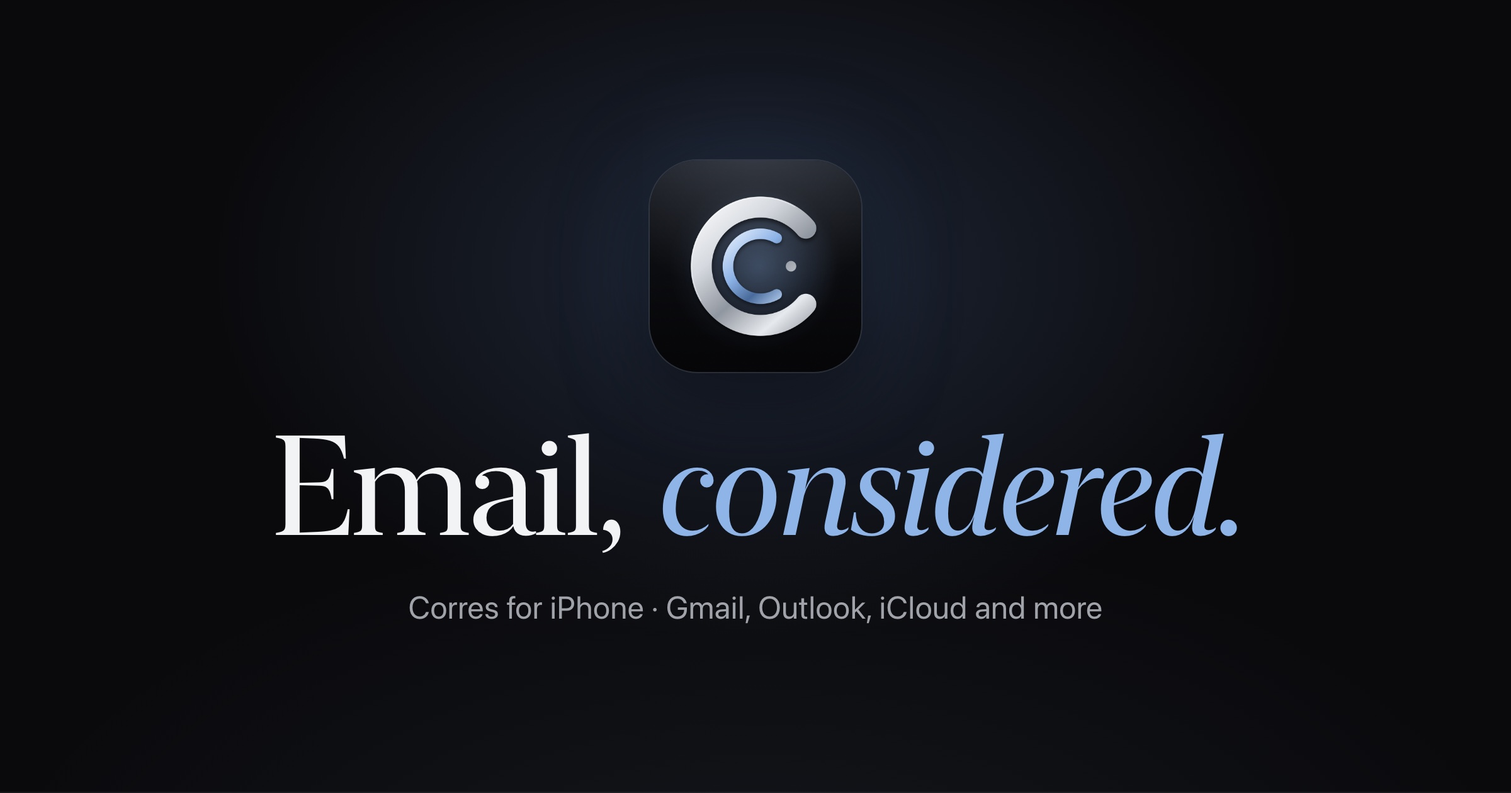
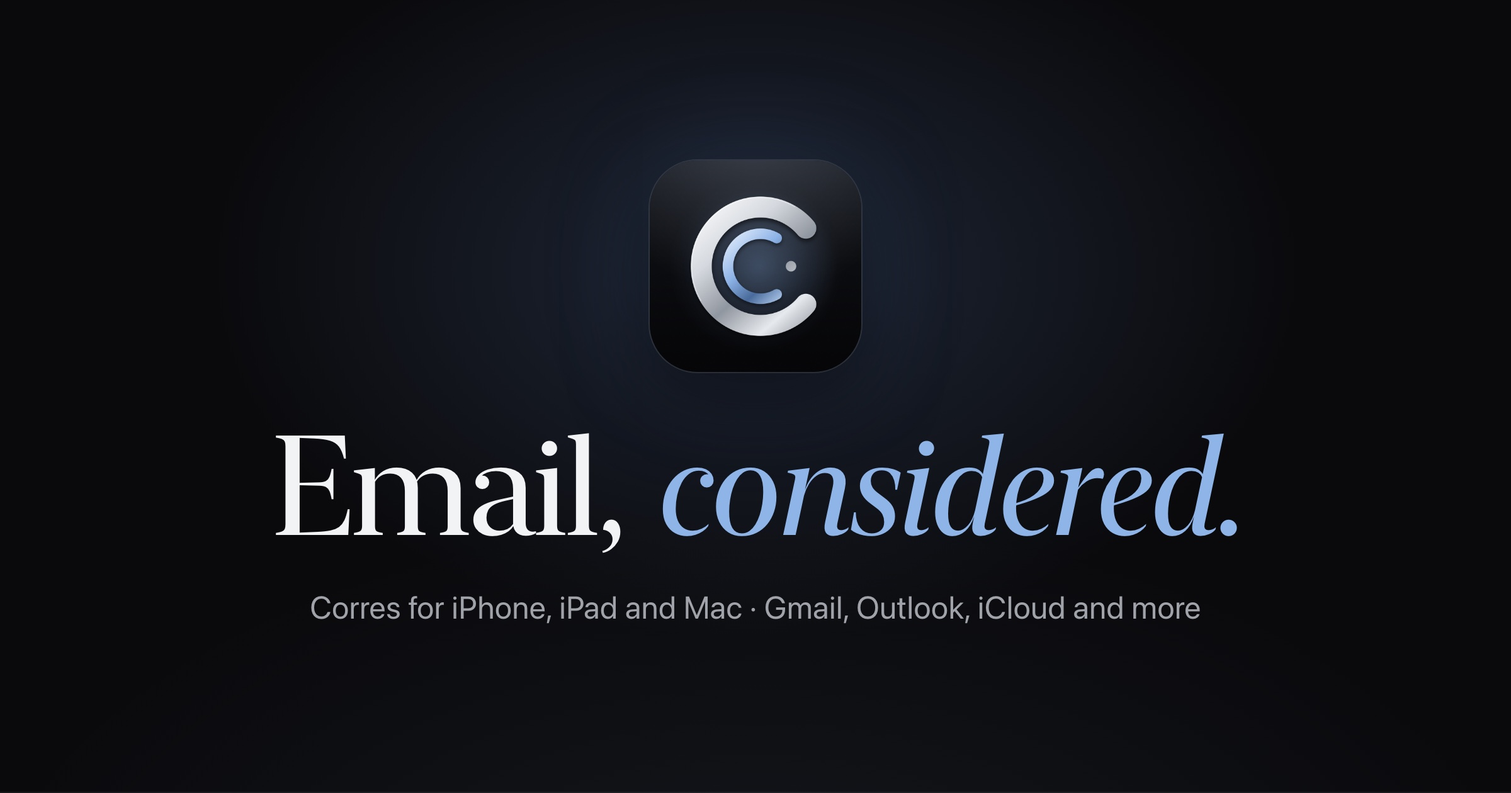
Corres on iPhone, iPad and Mac
- The site says iPhone, iPad and Mac everywhere: hero, descriptions,
  the share card, the closing line, privacy, support and terms.
- A new section with real screenshots of the Mac app and the iPad app
  (sample mail), the Mac window behind the iPad and iPhone.
- The FAQ answers iPad and Mac together; support explains using Corres
  on a Mac and that removing an account removes it everywhere.
- Privacy covers accounts that follow you through iCloud Keychain.

Changed region(s): [[0.2188, 0.7429, 0.7812, 0.8048]]

diff --git a/public/corres/index.html b/public/corres/index.html
@@ -4,13 +4,13 @@
 <meta charset="utf-8">
 <meta name="viewport" content="width=device-width, initial-scale=1, viewport-fit=cover">
 <title>Corres · Email, considered.</title>
-<meta name="description" content="Corres is an email app for iPhone that reads and sorts your Gmail, Outlook and iCloud Mail on the device, brings forward what needs you, and never sends your mail to a server or an AI company.">
+<meta name="description" content="Corres is an email app for iPhone, iPad and Mac that reads and sorts your Gmail, Outlook and iCloud Mail on your own devices, brings forward what needs you, and never sends your mail to a server or an AI company.">
 <link rel="canonical" href="https://corres.app/">
 <meta property="og:type" content="website">
 <meta property="og:site_name" content="Corres">
 <meta property="og:url" content="https://corres.app/">
 <meta property="og:title" content="Corres · Email, considered.">
-<meta property="og:description" content="What needs you, first. Gmail, Outlook, iCloud and more in one calm inbox, read and sorted on your iPhone.">
+<meta property="og:description" content="What needs you, first. Gmail, Outlook, iCloud and more in one calm inbox, read and sorted on your iPhone, iPad and Mac.">
 <meta property="og:image" content="https://corres.app/img/share.jpg">
 <meta property="og:image:width" content="2400">
 <meta property="og:image:height" content="1260">
@@ -133,6 +133,24 @@
   .head p { color: var(--sec); font-size: 19px; margin: 0; max-width: 36em; }
   .center { text-align: center; margin-inline: auto; }
   .center p { margin-inline: auto; }
+
+  /* Every screen: the Mac window, with iPad and iPhone in front of it. */
+  .devices-stage { position: relative; max-width: 1080px; margin: 8px auto 0; padding-bottom: 9%; }
+  .macwin { width: 84%; margin-left: auto; border-radius: 12px; overflow: hidden; background: #0b0b0d;
+            box-shadow: 0 0 0 1px rgba(255,255,255,.14), 0 40px 90px rgba(0,0,0,.55), 0 10px 30px rgba(0,0,0,.35); }
+  .macwin img { display: block; width: 100%; height: auto; }
+  .ipad { position: absolute; left: 0; bottom: 0; width: 31%; border-radius: 7% / 5.2%; padding: 2.4%;
+          background: linear-gradient(145deg, #4a4c52, #1d1e21 40%, #2b2d31);
+          box-shadow: 0 0 0 1px rgba(255,255,255,.08) inset, 0 30px 70px rgba(0,0,0,.6); }
+  .ipad .glass { background: #020203; border-radius: 5.2% / 3.9%; padding: 3.2%; }
+  .ipad img { display: block; width: 100%; height: auto; border-radius: 2.6% / 1.95%; }
+  .devices-stage .phone { position: absolute; right: -1%; bottom: -3%; width: 15.5%; margin: 0; }
+  @media (max-width: 900px) {
+    .macwin { width: 100%; }
+    .ipad { width: 40%; left: -2%; bottom: -6%; }
+    .devices-stage { padding-bottom: 22%; }
+    .devices-stage .phone { width: 21%; right: -2%; bottom: -8%; }
+  }
 
   /* Story rows */
   .story { display: grid; grid-template-columns: 1fr 1fr; gap: 72px; align-items: center; padding: 56px 0; }
@@ -271,7 +289,7 @@
   <div class="hero">
     <div class="wrap">
       <div>
-        <p class="eyebrow">Email for iPhone · Gmail, Outlook and iCloud</p>
+        <p class="eyebrow">Email for iPhone, iPad and Mac · Gmail, Outlook and iCloud</p>
         <h1>Email,<br><em>considered.</em></h1>
         <p class="lede">Corres opens on <strong>what needs you</strong>: every email that asks something of you, with the reason why. The rest of your mail is one swipe along, quiet until you&rsquo;re ready. All read and sorted on your iPhone.</p>
         <div class="cta">
@@ -390,6 +408,21 @@
     </div>
   </section>
 
+  <section id="devices" style="padding-top:0">
+    <div class="wrap">
+      <div class="head center reveal">
+        <p class="eyebrow">iPhone, iPad and Mac</p>
+        <h2>One Corres, on every screen.</h2>
+        <p>The same Needs You, the same sorting and your same accounts on all three. Add an account once and it&rsquo;s on your other devices too, through iCloud Keychain. On the Mac, a native app with Mail&rsquo;s shortcuts and Gmail&rsquo;s.</p>
+      </div>
+      <div class="devices-stage reveal">
+        <div class="macwin"><img src="img/mac-dark.jpg" width="1362" height="870" loading="lazy" alt="Corres on a Mac: the sidebar, Needs You with the reason for each email, and an open conversation"></div>
+        <div class="ipad"><div class="glass"><img src="img/ipad-dark.jpg" width="1032" height="1376" loading="lazy" alt="Corres on iPad: three columns with Needs You and an open email"></div></div>
+        <div class="phone"><div class="glass"><img src="img/mail-dark.jpg" loading="lazy" alt="Corres on iPhone: the Primary list"></div></div>
+      </div>
+    </div>
+  </section>
+
   <section style="padding-top:0">
     <div class="wrap">
       <div class="head reveal">
@@ -406,7 +439,7 @@
         <div class="cell"><svg viewBox="0 0 24 24"><path d="M4 12v7a1 1 0 0 0 1 1h14a1 1 0 0 0 1-1v-7"/><path d="M12 15V3M7 8l5-5 5 5"/></svg><h4>Share to Corres</h4><p>Share a page or photos from any app and write the email right in the Share sheet.</p></div>
         <div class="cell"><svg viewBox="0 0 24 24"><path d="M3 6h18M3 12h18M3 18h12"/></svg><h4>Unsubscribe in a tap</h4><p>Leave a mailing list the way the sender intended, without visiting their site.</p></div>
         <div class="cell"><svg viewBox="0 0 24 24"><path d="M2 12s3.6-7 10-7 10 7 10 7-3.6 7-10 7S2 12 2 12z"/><circle cx="12" cy="12" r="3"/><path d="M4 4l16 16"/></svg><h4>No tracking pixels</h4><p>Remote images and read-receipt trackers are blocked until you choose to show them.</p></div>
-        <div class="cell"><svg viewBox="0 0 24 24"><rect x="3" y="3" width="18" height="18" rx="3"/><path d="M9 3v18"/></svg><h4>iPhone and iPad</h4><p>Light and dark, every text size, VoiceOver, and a three-column layout on iPad.</p></div>
+        <div class="cell"><svg viewBox="0 0 24 24"><rect x="3" y="3" width="18" height="18" rx="3"/><path d="M9 3v18"/></svg><h4>iPhone, iPad and Mac</h4><p>A native Mac app with its own windows, menus and keyboard shortcuts, three columns on iPad, and your accounts and choices on all of them through iCloud.</p></div>
       </div>
     </div>
   </section>
@@ -414,10 +447,10 @@
   <section id="privacy" class="privacy">
     <div class="wrap">
       <p class="eyebrow reveal">Private by design</p>
-      <p class="promise reveal">Your email is read on your iPhone. <em>Not on our servers, and never by an AI company.</em></p>
+      <p class="promise reveal">Your email is read on your own devices. <em>Not on our servers, and never by an AI company.</em></p>
       <div class="three reveal">
-        <div><h4>Stored on your device</h4><p>Mail comes straight from Google, Microsoft or Apple to your iPhone and stays there, protected by iOS. Corres&rsquo;s servers never receive it.</p></div>
-        <div><h4>Sorted on your device</h4><p>Needs You, summaries, suggested replies and answers in Search all run on the iPhone. Nothing is sent to an AI service or used to train one.</p></div>
+        <div><h4>Stored on your device</h4><p>Mail comes straight from Google, Microsoft or Apple to your iPhone, iPad or Mac and stays there, protected by Apple&rsquo;s built-in encryption. Corres&rsquo;s servers never receive it.</p></div>
+        <div><h4>Sorted on your device</h4><p>Needs You, summaries, suggested replies and answers in Search all run on your device. Nothing is sent to an AI service or used to train one.</p></div>
         <div><h4>Nothing to sell</h4><p>No ads, no analytics, no tracking SDKs, no read receipts. Corres is paid for by the people who use it.</p></div>
       </div>
       <p class="fine reveal">Read the full <a href="privacy/">privacy policy</a>. Corres&rsquo;s use and transfer of information received from Google APIs adheres to the <a href="https://developers.google.com/terms/api-services-user-data-policy">Google API Services User Data Policy</a>, including the Limited Use requirements.</p>
@@ -461,12 +494,11 @@
       <div class="head center reveal"><h2>Questions</h2></div>
       <div class="faq reveal">
         <details><summary>Which email accounts work with Corres?</summary><p>Gmail and Google Workspace, Outlook.com, Hotmail and Live, work or school Microsoft 365, and iCloud Mail. Add as many as you like; they share one inbox. iCloud asks for an app-specific password instead of your Apple Account password, and Corres walks you through making one in about a minute.</p></details>
-        <details><summary>What is Postwright?</summary><p>Postwright is the mail engine we built for Corres. It talks to Gmail, Outlook and iCloud Mail each in its own way, on your iPhone, so your actions are instant, Undo always works, and every account stays in step with the web. It&rsquo;s why Corres doesn&rsquo;t need a server of its own to hold your mail.</p></details>
-        <details><summary>Does Corres read my email on its servers?</summary><p>No. Your mail is downloaded from Google, Microsoft or Apple directly to your iPhone and processed there. An optional notification relay only learns that your mailbox changed, never what&rsquo;s in it. The <a href="privacy/" style="color:var(--accent)">privacy policy</a> has the details.</p></details>
-        <details><summary>Do I need Apple Intelligence?</summary><p>No. Sorting, Needs You and Waiting work on every supported iPhone. Summaries and drafted replies use Apple Intelligence where your iPhone has it.</p></details>
-        <details><summary>Is there an iPad version?</summary><p>Yes, Corres runs on iPhone and iPad, with a three-column layout on iPad.</p></details>
-        <details><summary>Does it work without a signal?</summary><p>Yes. Your mail is on your iPhone, so it reads offline, and anything you archive, delete, flag or mark read goes through as soon as you&rsquo;re back online.</p></details>
-        <details><summary>Is there a Mac app?</summary><p>It&rsquo;s in the works: a native Mac app, built for the Mac rather than carried over from iPhone, on the same engine and with what you&rsquo;ve set in Corres following you there through iCloud.</p></details>
+        <details><summary>What is Postwright?</summary><p>Postwright is the mail engine we built for Corres. It talks to Gmail, Outlook and iCloud Mail each in its own way, on your device, so your actions are instant, Undo always works, and every account stays in step with the web. It&rsquo;s why Corres doesn&rsquo;t need a server of its own to hold your mail.</p></details>
+        <details><summary>Does Corres read my email on its servers?</summary><p>No. Your mail is downloaded from Google, Microsoft or Apple directly to your iPhone, iPad or Mac and processed there. An optional notification relay only learns that your mailbox changed, never what&rsquo;s in it. The <a href="privacy/" style="color:var(--accent)">privacy policy</a> has the details.</p></details>
+        <details><summary>Do I need Apple Intelligence?</summary><p>No. Sorting, Needs You and Waiting work on every supported iPhone, iPad and Mac. Summaries and drafted replies use Apple Intelligence where your device has it.</p></details>
+        <details><summary>Is there an iPad or Mac version?</summary><p>Yes. Corres runs on iPhone, iPad and Mac: three columns on iPad, and on the Mac a native app with its own windows, menus and keyboard shortcuts, including Mail&rsquo;s and Gmail&rsquo;s. One Corres Pro covers all three, and the accounts you add follow you through iCloud Keychain.</p></details>
+        <details><summary>Does it work without a signal?</summary><p>Yes. Your mail is on your device, so it reads offline, and anything you archive, delete, flag or mark read goes through as soon as you&rsquo;re back online.</p></details>
         <details><summary>How do I get it?</summary><p>Corres is in beta on TestFlight. <a href="mailto:support@corres.app?subject=Corres%20early%20access" style="color:var(--accent)">Ask for early access</a>, and it&rsquo;s coming to the App Store.</p></details>
       </div>
     </div>
@@ -475,7 +507,7 @@
   <div class="closing">
     <img src="img/mark.jpg" alt="">
     <h2>Email, considered.</h2>
-    <p>A calmer inbox, read on your iPhone, from a small studio that would rather you spent less time in it.</p>
+    <p>A calmer inbox, read on your iPhone, iPad and Mac, from a small studio that would rather you spent less time in it.</p>
     <div class="cta"><a class="btn primary" href="mailto:support@corres.app?subject=Corres%20early%20access">Get early access</a></div>
   </div>
 </main>

diff --git a/public/corres/privacy/index.html b/public/corres/privacy/index.html
@@ -4,13 +4,13 @@
 <meta charset="utf-8">
 <meta name="viewport" content="width=device-width, initial-scale=1">
 <title>Corres Privacy Policy · Anwar Creative Studio</title>
-<meta name="description" content="How Corres handles your email: read and sorted on your iPhone, never sold, never sent to an AI company.">
+<meta name="description" content="How Corres handles your email: read and sorted on your iPhone, iPad and Mac, never sold, never sent to an AI company.">
 <link rel="canonical" href="https://corres.app/privacy/">
 <meta property="og:type" content="website">
 <meta property="og:site_name" content="Corres">
 <meta property="og:url" content="https://corres.app/privacy/">
 <meta property="og:title" content="Corres Privacy Policy">
-<meta property="og:description" content="How Corres handles your email: read and sorted on your iPhone, never sold, never sent to an AI company.">
+<meta property="og:description" content="How Corres handles your email: read and sorted on your iPhone, iPad and Mac, never sold, never sent to an AI company.">
 <meta property="og:image" content="https://corres.app/img/share.jpg">
 <meta property="og:image:width" content="2400">
 <meta property="og:image:height" content="1260">
@@ -44,23 +44,24 @@
   <img class="mark" src="../img/mark.jpg" alt="" style="margin-top:28px">
   <p class="eyebrow">Corres · Privacy Policy</p>
   <h1>Your mail stays yours.</h1>
-  <p class="lede">Corres reads and sorts your email on your iPhone. It doesn't sell your data, show ads, or send your mail to an AI company.</p>
+  <p class="lede">Corres reads and sorts your email on your iPhone, iPad and Mac. It doesn't sell your data, show ads, or send your mail to an AI company.</p>
   <p>Effective October 19, 2026. Corres is made by Anwar Creative Studio (“we”).</p>
 
   <h2>What Corres accesses</h2>
   <p>When you connect a Gmail account, you sign in with Google directly; Corres never sees your password. Google gives Corres permission to read, send and organize (archive, label, mark read, move to Trash) your Gmail, which is what an email app needs to work. If you open Out of Office in Settings, Corres asks Google for one more permission, to change your Gmail settings, so it can turn your vacation reply on and off; it's asked for only then, never at sign-in. You can revoke any of this anytime in your Google Account settings or by removing the account in Corres.</p>
   <p>When you connect an Outlook account (Outlook.com, Hotmail, Live, or a work or school Microsoft 365 account), you sign in with Microsoft directly; Corres never sees your password. Microsoft gives Corres permission to read and organize your mail (archive, move, flag, mark read, categories), send mail as you, change your mailbox settings so Out of Office can turn your automatic replies on and off, and read your basic profile (your name and photo, shown in Corres). You can revoke this anytime at account.microsoft.com under Privacy → Apps and services, through your organization's IT for a work account, or by removing the account in Corres.</p>
   <p>When you connect iCloud Mail, Apple asks other mail apps for an app-specific password instead of your Apple Account password. You make one at account.apple.com and give it to Corres, which checks it with iCloud and keeps it in your device's Keychain. Corres connects to iCloud's mail servers directly with it to read, organize and send your mail, and to file a copy of what you send in Sent. Corres never sees your Apple Account password. You can turn the app-specific password off anytime at account.apple.com, or remove the account in Corres.</p>
-  <p>If you allow it, Corres also reads your iPhone Contacts, on your device only, to suggest people as you type and show their photos. It never uploads them.</p>
+  <p>If you allow it, Corres also reads your Contacts, on your device only, to suggest people as you type and show their photos. It never uploads them.</p>
 
   <h2>Where your mail is processed</h2>
   <ul>
-    <li><strong>On your device.</strong> Your messages are downloaded from Google, Microsoft or Apple to your iPhone or iPad and stored there, protected by iOS. Sorting, summaries, suggested replies, rewrites, dictation and answers to questions in Search all run on your device using Apple Intelligence and Apple's on-device speech recognition.</li>
+    <li><strong>On your device.</strong> Your messages are downloaded from Google, Microsoft or Apple to your iPhone, iPad or Mac and stored there, protected by Apple&rsquo;s built-in encryption. Sorting, summaries, suggested replies, rewrites, dictation and answers to questions in Search all run on your device using Apple Intelligence and Apple's on-device speech recognition.</li>
     <li><strong>Never on our servers, never with AI companies.</strong> The contents of your email are not sent to Anwar Creative Studio or to any AI provider.</li>
     <li><strong>Your sign-in permission</strong> (or, for iCloud, your app-specific password) is kept in your device's Keychain, shared only with Corres's own Share extension so you can write an email from the Share sheet.</li>
     <li><strong>New-mail notifications are written on your device.</strong> When a notification arrives, Corres's notification extension fetches that one email from Google or Microsoft with your own sign-in and shows its sender, subject and opening words. Nothing about the email passes through our servers.</li>
     <li><strong>Your account settings</strong> (each account's name, color, signatures and notification choices) are kept on your device.</li>
     <li><strong>What Corres learns from you</strong> (where you move a sender's mail, what you mark as needing no action, your habits) is kept on your device, and you can see and forget any of it in Settings.</li>
+    <li><strong>Your accounts on your other devices.</strong> So an account you add on one device is ready on your others, its sign-in (a token, or an app-specific password) is kept in your iCloud Keychain, which Apple encrypts end to end so that not even Apple can read it, with a list of which accounts you have. We never receive it. If iCloud Keychain is off, it stays on the device you added it on. Removing an account in Corres removes it from all your devices.</li>
     <li><strong>Your Corres choices on your other devices.</strong> So your iPhone, iPad and Mac agree, Corres keeps a small record of what you decide in it in your own private iCloud storage, which Apple holds for your Apple Account: conversations you moved, snoozed or pinned (by their identifiers, not their contents), senders you allowed or blocked, your VIPs, what Corres has learned, your signatures and your settings. No email content is stored there, and we can't read it. Signing out of iCloud on a device stops it.</li>
     <li><strong>Changes made without a signal</strong> (archive, delete, flag, mark read) wait on your device and are sent to Google, Microsoft or Apple once you're back online.</li>
     <li><strong>Send Later</strong> keeps the email on your iPhone and sends it from there at the time you chose. It never waits on our servers.</li>

diff --git a/public/corres/support/index.html b/public/corres/support/index.html
@@ -4,13 +4,13 @@
 <meta charset="utf-8">
 <meta name="viewport" content="width=device-width, initial-scale=1">
 <title>Corres Support · Anwar Creative Studio</title>
-<meta name="description" content="Help with Corres, the email app for iPhone and iPad: accounts, notifications, Corres Pro and privacy.">
+<meta name="description" content="Help with Corres, the email app for iPhone, iPad and Mac: accounts, notifications, Corres Pro and privacy.">
 <link rel="canonical" href="https://corres.app/support/">
 <meta property="og:type" content="website">
 <meta property="og:site_name" content="Corres">
 <meta property="og:url" content="https://corres.app/support/">
 <meta property="og:title" content="Corres Support">
-<meta property="og:description" content="Help with Corres, the email app for iPhone and iPad: accounts, notifications, Corres Pro and privacy.">
+<meta property="og:description" content="Help with Corres, the email app for iPhone, iPad and Mac: accounts, notifications, Corres Pro and privacy.">
 <meta property="og:image" content="https://corres.app/img/share.jpg">
 <meta property="og:image:width" content="2400">
 <meta property="og:image:height" content="1260">
@@ -59,7 +59,9 @@
     <details><summary>How do I add iCloud Mail?</summary><p>Apple asks other mail apps for an app-specific password instead of your Apple Account password. In Corres, choose Settings → Add Account → iCloud Mail and enter your iCloud address, then tap Open Apple Account. Sign in, choose Sign-In and Security, then App-Specific Passwords, make one called Corres and copy it. Back in Corres, tap Paste. If you later change your Apple Account password, Apple turns app-specific passwords off; Corres asks for a new one.</p></details>
   <details><summary>Google says the app isn't verified, or won't let me sign in</summary><p>While Corres is in beta, Google limits Gmail sign-in to listed testers until its verification is finished. Email us the Gmail address you'd like to use and we'll add it.</p></details>
   <details><summary>My work Outlook account needs an administrator's approval</summary><p>Some companies only allow apps their IT team has approved. Ask your administrator to approve Corres for your organization, or use a personal Outlook account in the meantime.</p></details>
-  <details><summary>How do I remove an account?</summary><p>Settings → tap the account → Remove Account. Its mail is deleted from your iPhone, and its push notifications are turned off. To revoke access entirely, also remove Corres in your Google or Microsoft account's security settings, or turn off its app-specific password at account.apple.com.</p></details>
+  <details><summary>How do I remove an account?</summary><p>Settings → tap the account → Remove Account (on the Mac, Corres → Settings → Accounts). It&rsquo;s removed from Corres on all your devices, its mail is deleted from them, and its push notifications are turned off. To revoke access entirely, also remove Corres in your Google or Microsoft account's security settings, or turn off its app-specific password at account.apple.com.</p></details>
+
+  <details><summary>How do I use Corres on my Mac?</summary><p>Install Corres on your Mac from the same TestFlight invitation. Your accounts arrive from your iPhone through iCloud Keychain, so there&rsquo;s nothing to sign in to again, and one Corres Pro covers iPhone, iPad and Mac. The Mac knows Mail&rsquo;s shortcuts (⌘R reply, ⌃⌘A archive) and Gmail&rsquo;s single keys (E archive, R reply, J and K to move).</p></details>
 
   <h2>Mail and notifications</h2>
   <details><summary>I'm not getting notifications</summary><p>Check Settings → Notifications in Corres (each account has its own setting) and Corres in your iPhone's Settings → Notifications. Outlook mail notifies the moment it arrives. Gmail notifies when iOS lets Corres check in, which is usually within minutes. iCloud tells only Apple Mail the moment mail arrives. For instant iCloud alerts, turn on Instant Notifications in Settings → the iCloud account: Corres's mail watcher then keeps an eye on your Inbox for you, without ever reading your email. Without it, Corres checks iCloud whenever iOS lets it, usually within the hour, and instantly while it's open.</p></details>
@@ -72,7 +74,7 @@
   <details><summary>I bought Pro but it isn't unlocked</summary><p>Open Settings in Corres and tap Restore Purchases, signed in with the same Apple Account you bought it with.</p></details>
 
   <h2>Privacy</h2>
-  <details><summary>Does Corres read my email on a server?</summary><p>No. Mail goes straight from Google, Microsoft or Apple to your iPhone and stays there. Sorting, summaries and Ask run on your iPhone. The full details are in the <a href="../privacy/">privacy policy</a>.</p></details>
+  <details><summary>Does Corres read my email on a server?</summary><p>No. Mail goes straight from Google, Microsoft or Apple to your iPhone, iPad or Mac and stays there. Sorting, summaries and answers in Search run on your device. The full details are in the <a href="../privacy/">privacy policy</a>.</p></details>
   <details><summary>How do I delete my data?</summary><p>Remove your accounts in Settings and delete the app. Nothing of your mail is kept anywhere else. Questions about privacy: <a href="mailto:privacy@corres.app">privacy@corres.app</a>.</p></details>
 
   <hr>

diff --git a/src/content/corres.ts b/src/content/corres.ts
@@ -2,5 +2,5 @@ export const corres = {
   tagline: 'Email, considered.',
   status: 'In beta on TestFlight',
   description: "Corres opens on what needs you: every email that asks something of you, with the reason why. The rest waits quietly until you're ready.",
-  progress: "In beta with its first testers, for Gmail, Outlook and iCloud alike, all in one inbox. Corres opens on Needs You: the emails that ask something of you, each with the reason it's there, with the replies you're still owed one row above and the rest of your mail in Primary, Promotions, Social and Updates, one swipe along. Search looks through every account with filters like from: and has:attachment, and answers a question such as \"when is my flight?\" from your own mail. Archive, delete and mark read work with no signal and go through once you're back online, and what you decide in Corres follows you to your other devices through iCloud. New Outlook and iCloud mail notifies in seconds, even with Corres closed. Writing is complete: drafts that wait for you, Send Later, reminders if nobody replies, bold, lists and links, sending from your other addresses, and a reply straight from a notification. Apple Intelligence runs entirely on the iPhone, and every summary and reason is checked against the email itself before you see it. Underneath is Postwright, the mail engine we built for Corres, and a native Mac app is on the way.",
+  progress: "In beta with its first testers, for Gmail, Outlook and iCloud alike, all in one inbox. Corres opens on Needs You: the emails that ask something of you, each with the reason it's there, with the replies you're still owed one row above and the rest of your mail in Primary, Promotions, Social and Updates, one swipe along. Search looks through every account with filters like from: and has:attachment, and answers a question such as \"when is my flight?\" from your own mail. Archive, delete and mark read work with no signal and go through once you're back online, and what you decide in Corres follows you to your other devices through iCloud. New Outlook and iCloud mail notifies in seconds, even with Corres closed. Writing is complete: drafts that wait for you, Send Later, reminders if nobody replies, bold, lists and links, sending from your other addresses, and a reply straight from a notification. Apple Intelligence runs entirely on the iPhone, and every summary and reason is checked against the email itself before you see it. Underneath is Postwright, the mail engine we built for Corres, and a native Mac app, with accounts that follow you through iCloud Keychain.",
 }

diff --git a/public/corres/terms/index.html b/public/corres/terms/index.html
@@ -4,13 +4,13 @@
 <meta charset="utf-8">
 <meta name="viewport" content="width=device-width, initial-scale=1">
 <title>Corres Terms of Service · Anwar Creative Studio</title>
-<meta name="description" content="The terms for using Corres, the email app for iPhone and iPad.">
+<meta name="description" content="The terms for using Corres, the email app for iPhone, iPad and Mac.">
 <link rel="canonical" href="https://corres.app/terms/">
 <meta property="og:type" content="website">
 <meta property="og:site_name" content="Corres">
 <meta property="og:url" content="https://corres.app/terms/">
 <meta property="og:title" content="Corres Terms of Service">
-<meta property="og:description" content="The terms for using Corres, the email app for iPhone and iPad.">
+<meta property="og:description" content="The terms for using Corres, the email app for iPhone, iPad and Mac.">
 <meta property="og:image" content="https://corres.app/img/share.jpg">
 <meta property="og:image:width" content="2400">
 <meta property="og:image:height" content="1260">
@@ -45,7 +45,7 @@
   <img class="mark" src="../img/mark.jpg" alt="" style="margin-top:28px">
   <p class="eyebrow">Corres · Terms of Service</p>
   <h1>The fine print, kept plain.</h1>
-  <p class="lede">These terms cover your use of Corres, the email app for iPhone and iPad. By using Corres you agree to them.</p>
+  <p class="lede">These terms cover your use of Corres, the email app for iPhone, iPad and Mac. By using Corres you agree to them.</p>
   <p>Effective October 14, 2026. Corres is made by Anwar Creative Studio, operated by Tamkin Nurul Anwar (“we”, “us”).</p>
 
   <h2>Using Corres</h2>

diff --git a/src/components/CommandPalette.tsx b/src/components/CommandPalette.tsx
@@ -25,7 +25,7 @@ const ITEMS: Item[] = [
   { group: 'Pages', label: 'Colophon', href: `${BASE}colophon/` },
   { group: 'Products', label: 'Doorsong', href: links.doorsong, external: true },
   { group: 'Products', label: 'Artha', description: 'Money, budgets, bills, and planning', href: links.artha, external: true },
-  { group: 'Products', label: 'Corres', description: 'In beta · Email, considered. Gmail, Outlook and iCloud, read on your iPhone.', href: 'https://corres.app' },
+  { group: 'Products', label: 'Corres', description: 'In beta · Email, considered. Gmail, Outlook and iCloud, on iPhone, iPad and Mac.', href: 'https://corres.app' },
   { group: 'Products', label: 'Tether', href: links.tether, external: true },
   { group: 'Products', label: 'Jotfield', href: links.jotfield, external: true },
   { group: 'Products', label: 'Stub', href: links.stub, external: true },
